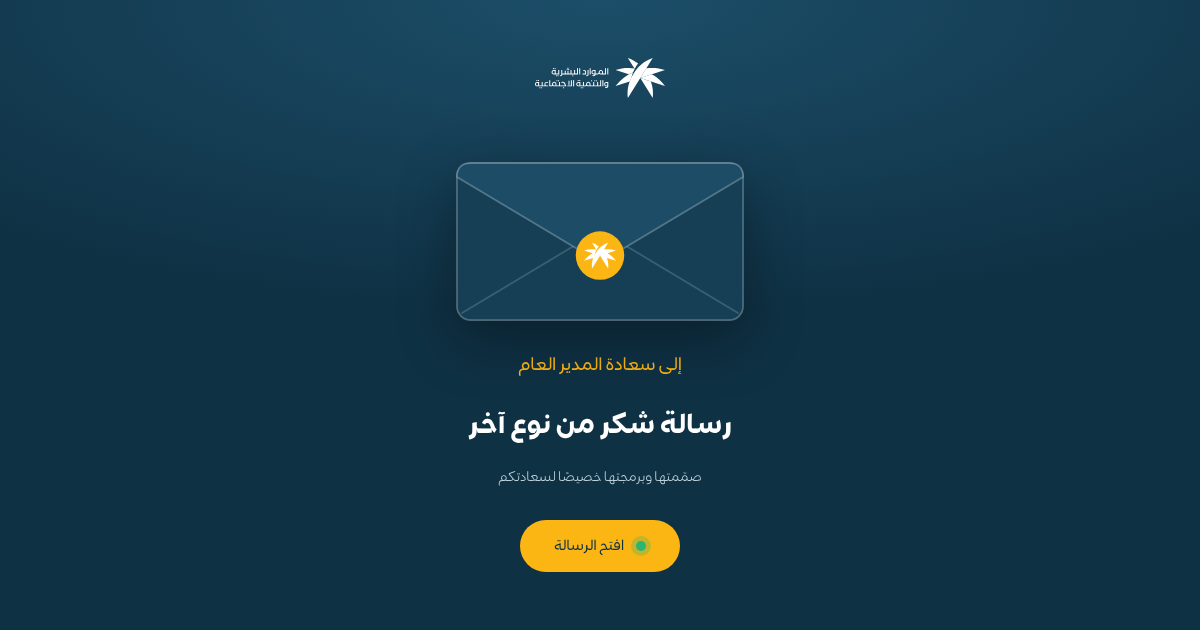
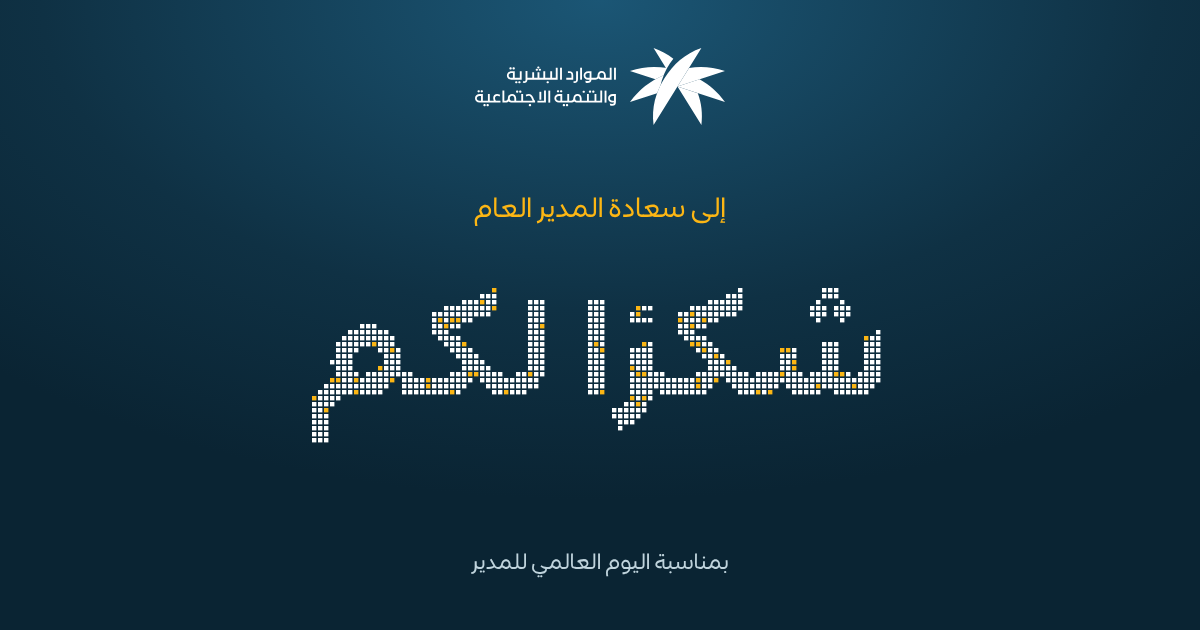
Add files via upload

diff --git a/index.html b/index.html
@@ -5,12 +5,12 @@
 <meta name="viewport" content="width=device-width, initial-scale=1, viewport-fit=cover">
 <meta name="theme-color" content="#0F3144">
 <title>شكرًا لكم سعادة المدير العام</title>
-<meta name="description" content="رسالة شكر بمناسبة اليوم العالمي للمدير">
+<meta name="description" content="إلى سعادة المدير العام">
 <meta property="og:type" content="website">
 <meta property="og:locale" content="ar_SA">
 <meta property="og:title" content="رسالة شكر من نوع آخر">
-<meta property="og:description" content="إلى سعادة المدير العام · بمناسبة اليوم العالمي للمدير">
-<meta property="og:image" content="https://shorekah.github.io/shukran/cover.png">
+<meta property="og:description" content="إلى سعادة المدير العام">
+<meta property="og:image" content="https://shorekah.github.io/shukran/cover.png?v=2">
 <meta property="og:image:width" content="1200">
 <meta property="og:image:height" content="630">
 <meta property="og:url" content="https://shorekah.github.io/shukran/">
